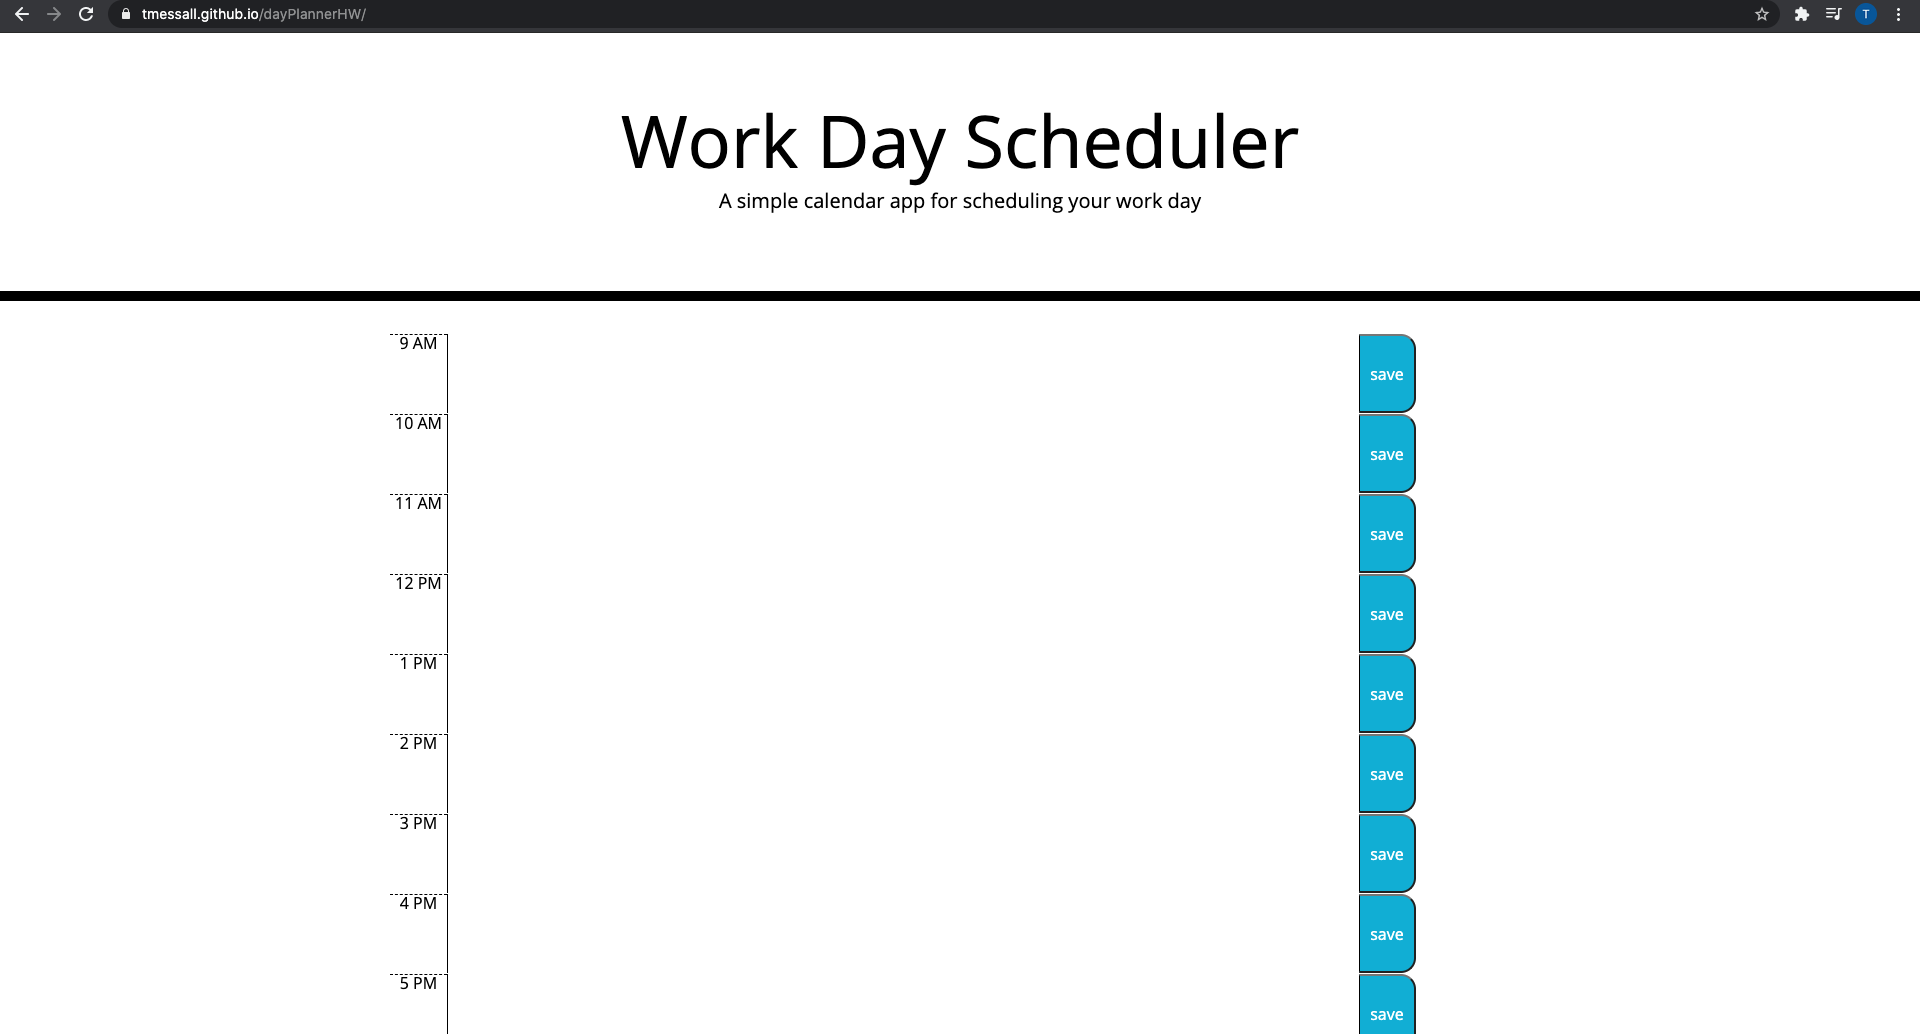
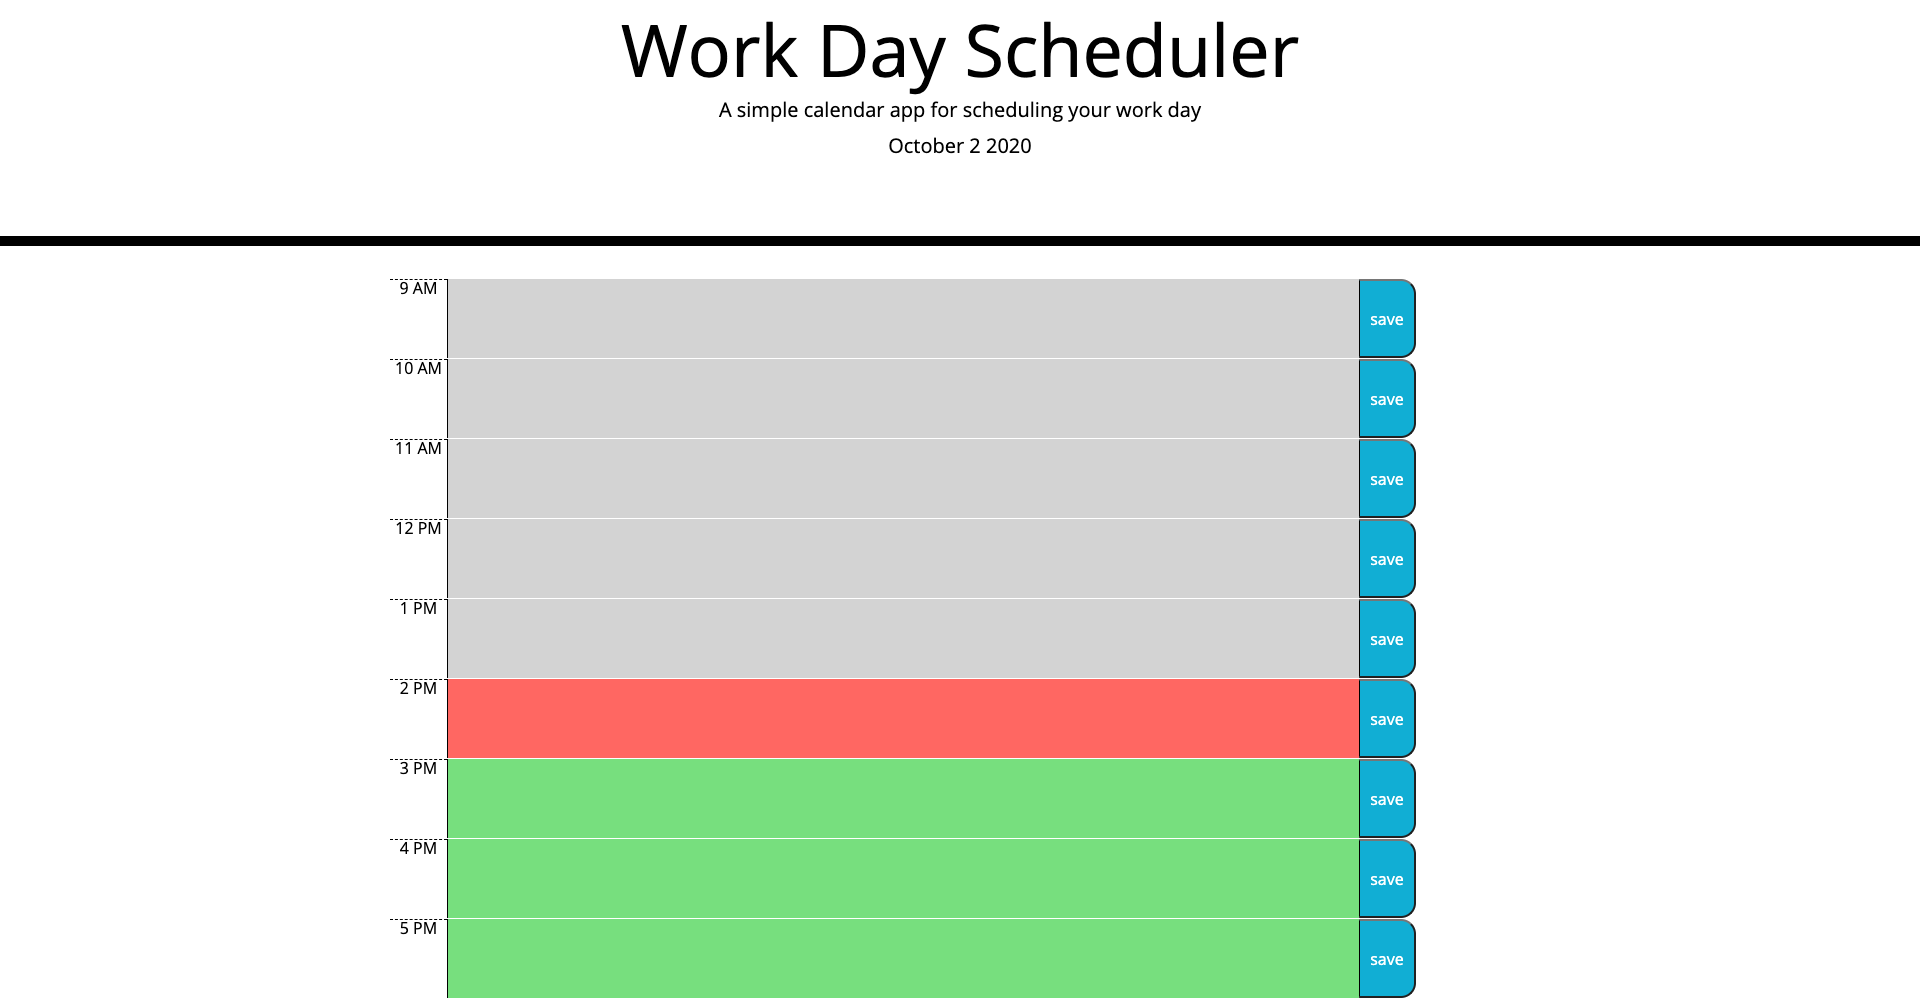
Added the color coding based on time to the planner, and updated README pic to reflect that

diff --git a/assets/js/script.js b/assets/js/script.js
@@ -3,7 +3,7 @@ $(document).ready(function (){
     var currentDay = $("#currentDay");
 
     // Keeps track of every event
-    var events = [];
+    var plannedEvents = [];
 
     // Sets current time into the variable
     var curTime = dayjs();
@@ -18,15 +18,15 @@ $(document).ready(function (){
         var hour = $("<div>");
         hour.addClass("hour");
         hour.width("5%");
-        var event = $("<textarea>");
+        var plannedEvent = $("<textarea>");
         // Needs to include check for if past, present, future, add class
-        event.addClass("textarea");
-        event.width("80%");
+        plannedEvent.addClass("textarea");
+        plannedEvent.width("80%");
         var saveBtn = $("<button>");
         saveBtn.text("save");
         saveBtn.addClass("saveBtn");
         saveBtn.width("5%");
-        // Adds a time to each hour
+        // Adds a time to show to each hour
         if (i < 3) {
             hour.text((i + 9) + " AM");
         } else if (i === 3) {
@@ -34,13 +34,24 @@ $(document).ready(function (){
         } else {
             hour.text((i-3) + " PM");
         }
+        // Sets a time for the block
+        var manipulated = curTime.startOf("day").add((i + 9), 'hour');
+        console.log(manipulated);
+        // Sets color
+        if (manipulated.isAfter(curTime)) {
+            plannedEvent.addClass("future")
+        } else if (manipulated.isSame(curTime.startOf("hour"))) {
+            plannedEvent.addClass("present");
+        } else {
+            plannedEvent.addClass("past");
+        }
         // Values are saved so that each event can be saved and accessed
-        event.attr("time", i);
-        events[i] = event;
+        plannedEvent.attr("time", i);
+        plannedEvents[i] = plannedEvent;
         saveBtn.attr("time", i);
         // Makes the row
         row.append(hour);
-        row.append(event);
+        row.append(plannedEvent);
         row.append(saveBtn);
         planner.append(row);
     }
@@ -51,7 +62,7 @@ $(document).ready(function (){
             var localEvent = localStorage.getItem(j);
             if (localEvent !== null) {
                 if (i === j) {
-                    events[i].val(localEvent);
+                    plannedEvents[i].val(localEvent);
                 }
                 
             }
@@ -61,10 +72,9 @@ $(document).ready(function (){
     // Saves event to local storage
     $(".saveBtn").click(function() {
         var time = $(this).attr("time");
-        for (var i = 0; i < events.length; i++) {
-            if (events[i].attr("time") === time) {
-                console.log("hey i work")
-                localStorage.setItem(i, events[i].val());
+        for (var i = 0; i < plannedEvents.length; i++) {
+            if (plannedEvents[i].attr("time") === time) {
+                localStorage.setItem(i, plannedEvents[i].val());
             }
         }
     })
